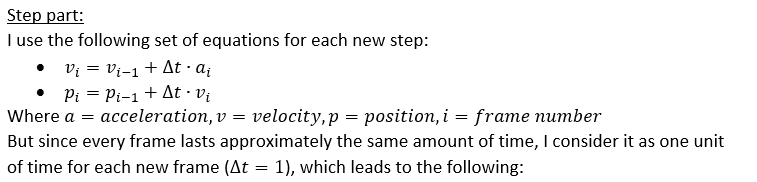
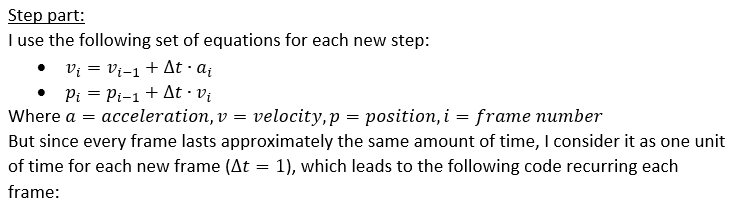
surface and shadow textures to one planet

diff --git a/Gravity Simulation/PlanetSystem.cpp b/Gravity Simulation/PlanetSystem.cpp
@@ -29,24 +29,13 @@ PlanetSystem::PlanetSystem(Vector2u windowSize) :
         backgroundParticles.push_back(Particle(pos, radius, vel));
     }
 
-    renderTexture.create(500, 500);
+    if (!planetShadowTexture.loadFromFile("Textures/planet.jpg"))
+        std::cerr << "Unable to load texture 1." << std::endl;
+    if (!planetTexture.loadFromFile("Textures/mercury.jpg"))
+        std::cerr << "Unable to load texture 2." << std::endl; 
 
-    Image planet;
-    mercury.loadFromFile("Textures/mercury.jpg");
-    planet.loadFromFile("Textures/planet.jpg");
-    
-    sf::Texture texture;
-    texture.loadFromImage(planet);
-    sf::Sprite sprite;
-    sprite.setTexture(texture, true);
-
-    renderTexture.draw(sprite);
-
-    planetTexture.loadFromImage(mercury);
-
-    //planetTexture.create(mercury.getSize().x * 2, mercury.getSize().y);
-    //planetTexture.update
-
+    planetShadowSprite.setTexture(planetShadowTexture);
+    planetSprite.setTexture(planetTexture);
 }
 
 /**
@@ -76,7 +65,8 @@ void PlanetSystem::MouseClicked(Vector2f mousePos, Menu& menu)
         if (isPaused && !inPlanet)
         {
             // adding new planet
-            planets.push_back(Planet(mousePos));
+            planets.push_back(Planet(mousePos, finalTex));
+            xValues.push_back(0.0f);
             float dist;
             currentMaxR = 500;
             for (int i = 0; i < planets.size() - 1; i++)
@@ -89,11 +79,6 @@ void PlanetSystem::MouseClicked(Vector2f mousePos, Menu& menu)
             {
                 expandPlanet = true;
                 if (showAcc) planets.back().ToggleArrowVisibility(false);
-            }
-            if (planets.size() == 1)
-            {
-                planets[0].planet.setTexture(&planetTexture);
-                xVal = 0;
             }
         }
     }
@@ -117,13 +102,7 @@ void PlanetSystem::Update(Time elapsed)
     // update particles
     if (!isPaused)
     {
-        if (planets.size() > 0)
-        {
-            xVal += 0.5;
-            if (xVal >= planetTexture.getSize().x / 1.5) xVal -= planetTexture.getSize().x / 1.5;
-            planets[0].planet.setTextureRect(IntRect(xVal, planetTexture.getSize().y / 2 - planets[0].GetRadius(), 2 * planets[0].GetRadius(), 2 * planets[0].GetRadius()));
-        }
-
+        // delete background particles that outside the frame
         for (int i = 0; i < backgroundParticles.size(); i++)
         {
             backgroundParticles[i].Update();
@@ -137,6 +116,7 @@ void PlanetSystem::Update(Time elapsed)
                 break;
             }
         }
+        // sparkle-effect
         if (rand() % 40 == 0)
         {
             // choose random particle:
@@ -144,6 +124,7 @@ void PlanetSystem::Update(Time elapsed)
             backgroundParticles[i].isSparkling = true;
         }
 
+        // delete explosion particles that outside the frame
         for (int i = 0; i < explosionParticles.size(); i++)
         {
             explosionParticles[i].Update();
@@ -155,6 +136,13 @@ void PlanetSystem::Update(Time elapsed)
                 explosionParticles.erase(explosionParticles.begin() + i);
                 break;
             }
+        }
+
+        // rotate planets' texture
+        for (int i = 0; i < planets.size(); i++)
+        {
+            xValues[i] += 0.5;
+            if (xValues[i] >= planetTexture.getSize().x / 1.5) xValues[i] -= planetTexture.getSize().x / 1.5;
         }
     }
 
@@ -180,13 +168,29 @@ void PlanetSystem::Update(Time elapsed)
             }
         }
         // need to call planets[i].SetArrowVisibility before calling planets[i].Update
+
+        // set the planet texture
+        float r1 = planets[i].GetRadius();
+
+        planetSprite.setTextureRect(IntRect(xValues[i], planetTexture.getSize().y / 2 - r1, 2 * r1, 2 * r1));
+        planetShadowSprite.setScale(2 * r1 / planetShadowTexture.getSize().x, 2 * r1 / planetShadowTexture.getSize().y);
+        RenderTexture renderTexture;
+        renderTexture.create(2 * r1, 2 * r1);
+        renderTexture.draw(planetSprite);
+        renderTexture.draw(planetShadowSprite, sf::RenderStates(sf::BlendMultiply));
+        renderTexture.display();
+        finalTex = renderTexture.getTexture();        
+
         planets[i].Update(elapsed, isPaused);
 
         // check for collisions:
+        Vector2f pos1 = planets[i].GetPosition();
+
         for (int j = 0; j < i; j++)
         {
-            Vector2f pos1 = planets[i].GetPosition(), pos2 = planets[j].GetPosition();
-            float r1 = planets[i].GetRadius(), r2 = planets[j].GetRadius();
+            Vector2f pos2 = planets[j].GetPosition();
+            float r2 = planets[j].GetRadius();
+
             if (Planet::Dist(pos1, pos2) <= r1 + r2) // planets collide
             {
                 // add explosion particles
@@ -225,7 +229,7 @@ void PlanetSystem::Update(Time elapsed)
                 {
                     bool planetOverriding;
                     float phi;
-                    Planet pl(Vector2f(0.0f, 0.0f));
+                    Planet pl(Vector2f(0.0f, 0.0f), finalTex);
                     Vector2f plVel(0.0f, 0.0f);
 
                     int amount = 3 + (rand() % 3);
@@ -239,9 +243,9 @@ void PlanetSystem::Update(Time elapsed)
                             pl.planet.setPosition(pos1 + Vector2f(cos(phi), sin(phi)) * float(20 + (rand() % int(r1))));
                             pl.SetRadius(10 + (rand() % int(r1 / 2 - 9)));
 
-                            for (Planet newPlanet : newPlanets)
+                            for (int newP = 0; newP < newPlanets.size(); newP++)
                             {
-                                if (Planet::Dist(newPlanet.GetPosition(), pl.GetPosition()) <= newPlanet.GetRadius() + pl.GetRadius())
+                                if (Planet::Dist(newPlanets[newP].GetPosition(), pl.GetPosition()) <= newPlanets[newP].GetRadius() + pl.GetRadius())
                                     planetOverriding = true;
                             }
                         } while (planetOverriding);
@@ -263,9 +267,9 @@ void PlanetSystem::Update(Time elapsed)
                             pl.planet.setPosition(pos2 + Vector2f(cos(phi), sin(phi)) * float(20 + (rand() % int(r2))));
                             pl.SetRadius(10 + (rand() % int(r2 / 2 - 9)));
 
-                            for (Planet newPlanet : newPlanets)
+                            for (int newP = 0; newP < newPlanets.size(); newP++)
                             {
-                                if (Planet::Dist(newPlanet.GetPosition(), pl.GetPosition()) <= newPlanet.GetRadius() + pl.GetRadius())
+                                if (Planet::Dist(newPlanets[newP].GetPosition(), pl.GetPosition()) <= newPlanets[newP].GetRadius() + pl.GetRadius())
                                     planetOverriding = true;
                             }
                         } while (planetOverriding);
@@ -278,6 +282,8 @@ void PlanetSystem::Update(Time elapsed)
 
                     planets.erase(planets.begin() + i);
                     planets.erase(planets.begin() + j);
+                    xValues.erase(xValues.begin() + i);
+                    xValues.erase(xValues.begin() + j);
                 }
                 else if (r1 > 40 && r2 <= 40) // planet i absorb planet j
                 {
@@ -285,6 +291,7 @@ void PlanetSystem::Update(Time elapsed)
                     SetPlanetDensity(i, planets[i].GetDensity() + 0.1 + float((rand() % 10)) / 10.0);
 
                     planets.erase(planets.begin() + j);
+                    xValues.erase(xValues.begin() + j);
                 }
                 else if (r2 > 40 && r1 <= 40) // planet j absorb planet i
                 {
@@ -292,11 +299,14 @@ void PlanetSystem::Update(Time elapsed)
                     SetPlanetDensity(j, planets[j].GetDensity() + 0.1 + float((rand() % 10)) / 10.0);
 
                     planets.erase(planets.begin() + i);
+                    xValues.erase(xValues.begin() + i);
                 }
                 else // both planets too small
                 {
                     planets.erase(planets.begin() + i);
                     planets.erase(planets.begin() + j);
+                    xValues.erase(xValues.begin() + i);
+                    xValues.erase(xValues.begin() + j);
                 }
                 break;
             }
@@ -309,6 +319,7 @@ void PlanetSystem::Update(Time elapsed)
         {
             if (showAcc) newPlanets[i].ToggleArrowVisibility(false);
             if (showVel) newPlanets[i].ToggleArrowVisibility(true);
+            xValues.push_back(0.0f);
         }
         
         // add new planets to the system
@@ -345,6 +356,7 @@ void PlanetSystem::RemovePlanet(int index)
 {
     if (index == -1) index += planets.size();
     planets.erase(planets.begin() + index);
+    xValues.erase(xValues.begin() + index);
     StopExpanding(true);
 }
 
@@ -360,6 +372,7 @@ void PlanetSystem::ClearEverything()
     for (int i = planets.size() - 1; i >= 0; i--)
     {
         planets.erase(planets.begin() + i);
+        xValues.erase(xValues.begin() + i);
     }
     setVelocityInd = -1;
 }

diff --git a/Gravity Simulation/Planet.cpp b/Gravity Simulation/Planet.cpp
@@ -4,7 +4,7 @@
     Planet constructor.
     @param position - the position of the planet center.
 */
-Planet::Planet(Vector2f position) :
+Planet::Planet(Vector2f position, Texture& tex) :
     planet(0),
     density(1.f),
     velocity(0, 0),
@@ -27,6 +27,8 @@ Planet::Planet(Vector2f position) :
     accArrow[0].color = Color(0, 153, 153);
     accArrow[3].color = Color(255, 255, 255);
     accArrow[4].color = Color(255, 255, 255);
+
+    planet.setTexture(&tex);
 }
 
 /**
@@ -250,6 +252,8 @@ void Planet::Update(sf::Time elapsed, bool isPaused)
         velocity += acceleration;
         planet.move(velocity);
     }
+    planet.setTextureRect(IntRect(0, 0, planet.getTexture()->getSize().x, planet.getTexture()->getSize().y));
+    
     if (showVelArrow) UpdateArrow(true);
     if (showAccArrow) UpdateArrow(false);
 }
@@ -276,7 +280,8 @@ void Planet::draw(RenderTarget& target, RenderStates states) const
     states.texture = NULL;
 
     // draw the planet
-    target.draw(planet, states);
+    target.draw(planet);// , states);
+    //std::cout << (planet.getTexture() == NULL) << std::endl;
 
     // draw the velocity arrow
     if (showVelArrow && !velTooSmall)

diff --git a/Gravity Simulation/Planet.h b/Gravity Simulation/Planet.h
@@ -24,6 +24,7 @@ class Planet : public Drawable, public Transformable
     VertexArray accArrow;
     bool showAccArrow;
     bool accTooSmall;
+    Texture texture;
     Time lifeTime;
 
     void SetArrow(Vector2f arrowPoint, bool isVel);
@@ -40,7 +41,7 @@ class Planet : public Drawable, public Transformable
     virtual void draw(RenderTarget& target, RenderStates states) const;
 
 public:
-    Planet(Vector2f position);
+    Planet(Vector2f position, Texture& tex);
     float GetRadius() const;
     float GetDensity() const;
     float GetVelDirection() const;

diff --git a/Gravity Simulation/PlanetSystem.h b/Gravity Simulation/PlanetSystem.h
@@ -25,10 +25,10 @@ class PlanetSystem : public Drawable, public Transformable
     int setVelocityInd;
     float currentMaxR;
 
-    Texture planetTexture;
-    float xVal;
-    sf::RenderTexture renderTexture;
-    Image mercury;
+    Texture planetShadowTexture, planetTexture;
+    Sprite planetShadowSprite, planetSprite;
+    Texture finalTex;
+    std::vector<float> xValues;
 
     void CheckIndex(int index);
     virtual void draw(RenderTarget& target, RenderStates states) const;

diff --git a/README.md b/README.md
@@ -4,13 +4,13 @@ This simulation demonstrate the interaction between planetary bodies through gra
 The concept of gravity is shown here as a force of attraction between each pair of planets that the user created. Each different setup will produce different results which may include collisions or any kind of periodic revolutions such as 2 planets orbit around each other.
 Some collisions make a big explosions and create several smaller planets/asteroids, while others, don’t break things apart but leave impact craters. For instance, Mars has been shaped by impact. Its northern half is smooth and low, its southern half mountainous and rough.  
 <img src="Media/1-5-equations.png" width="671" height="427" />  
-<img src="Media/2-5-stepPart.png" width="757" height="182" />  
+<img src="Media/2-5-stepPart.png" width="747" height="205" />  
 ```cpp
 if (!isPaused)
-    {
-        velocity += acceleration;
-        planet.move(velocity);
-    }
+{
+  velocity += acceleration;
+  planet.move(velocity);
+}
 ```
 
 ## Weekly Report
@@ -22,7 +22,8 @@ if (!isPaused)
 [Week 6](#34---94-0-hours-total)  
 [Week 7](#104---164-5-hours-total)  
 [Week 8](#244---304-12-hours-total)  
-[Week 9](#15---75--hours-total)  
+[Week 9](#15---75-7-hours-total)  
+[Week 10](#85---145--hours-total)  
 
 ### <ins>27.2 - 5.3:</ins> (6 hours total)
 Coming up with the general idea of the project and searching for the best fitting language and graphics library for it - about 1 hour.  
@@ -93,6 +94,14 @@ Which is pretty good but it doesn't look natural so I was trying to add shadows 
 <img src="Media/planet.jpg" width="300" height="300" />  
 But got into problems of using 2 textures for one planet.  
 
-### <ins>1.5 - 7.5:</ins> (? hours total)
+### <ins>1.5 - 7.5:</ins> (7 hours total)
 Adding an explanation to the report - about 2 hours and 15 minutes.  
 Fixing a bug with the time elapsed - about 15 minutes.  
+Trying to understand how textures works in SFML and how to combine 2 textures - about 4 hours and 30 minutes.    
+
+### <ins>8.5 - 14.5:</ins> (? hours total)
+Finally managed to properly add surface and shadow textures to a planet, as well as support for size changing - about 6 hours.  
+Without Shadow | With Shadow
+--- | ---
+<img src="Media/14-5-withoutShadow.gif" width="576" height="324" /> | <img src="Media/14-5-withShadow.gif" width="576" height="324" />
+Adding textures for every planet, not just one, and assigning random surface texture for each planet
